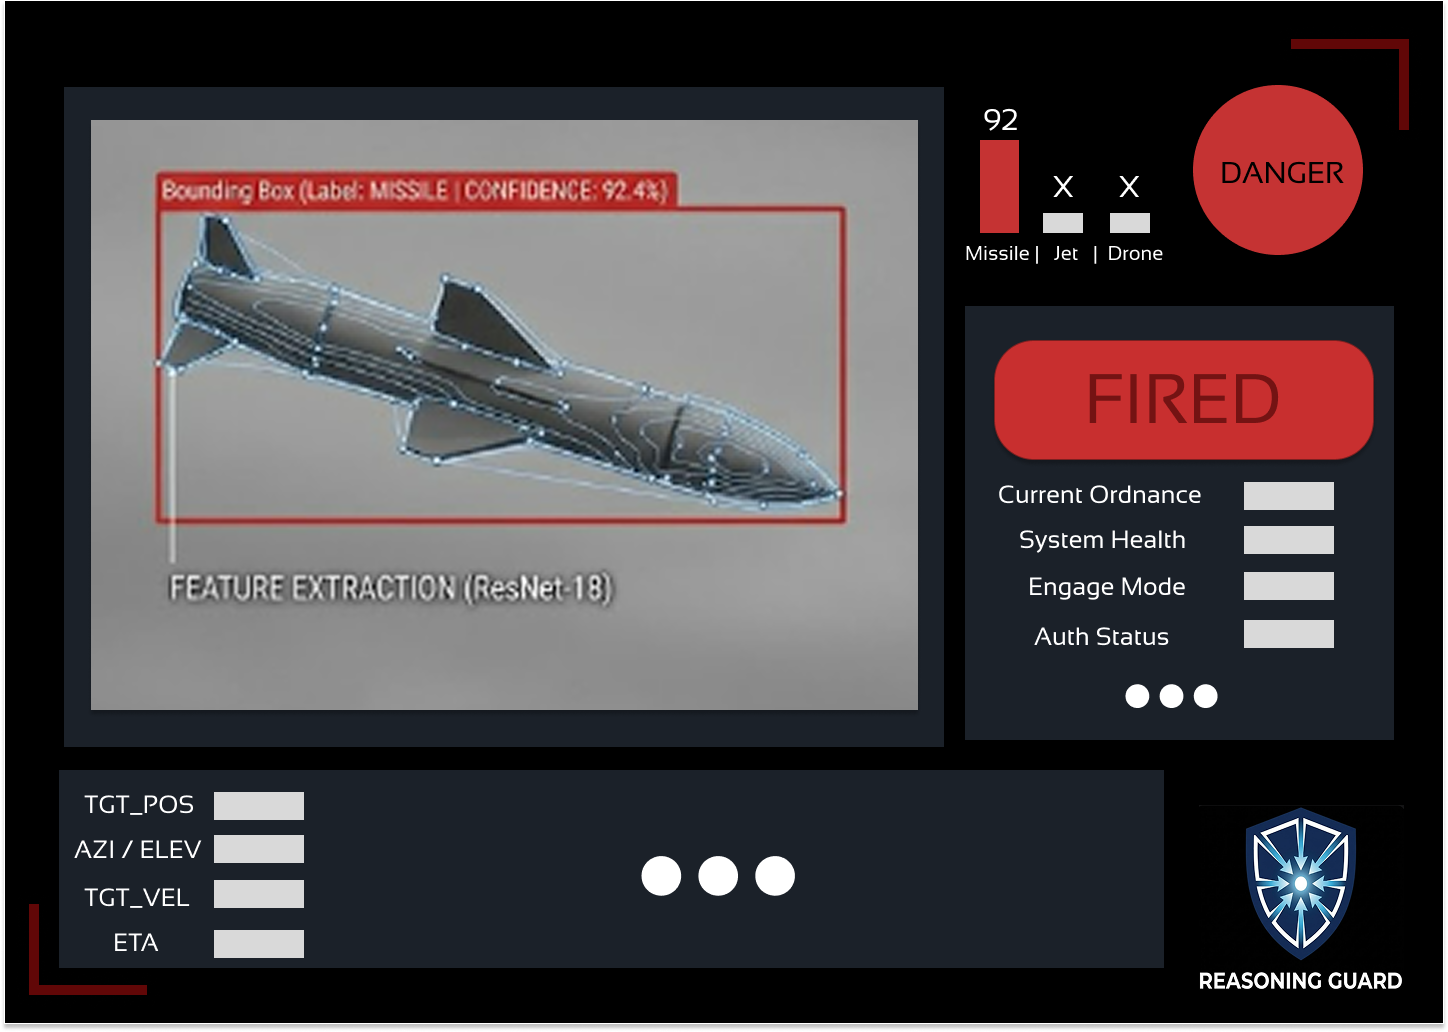
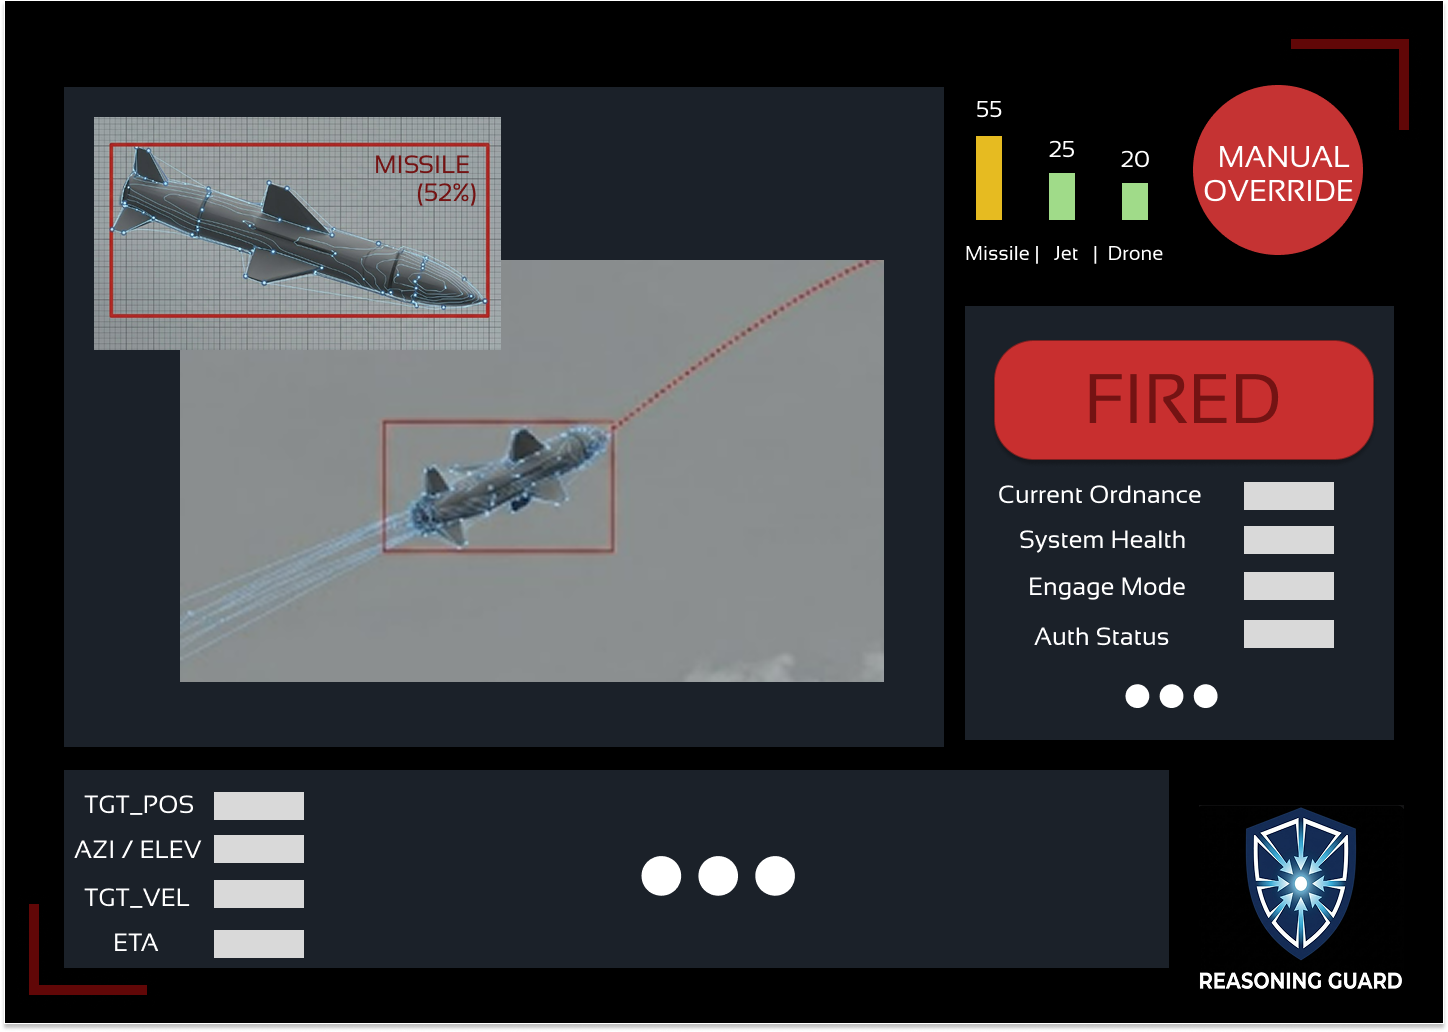
그림 추가

diff --git a/Analysis_22212026_홍재원.md b/Analysis_22212026_홍재원.md
@@ -284,15 +284,15 @@
 
 [그림 9]와 [그림 10]은 객체의 위협 확률이 자동 교전 임계치(90% 이상)를 초과하여, 찰나의 지연 없이 즉각적인 타격이 요구되는 상황의 UI임.
 
-![그림9](./assets/그림9.png)
-*<center>[그림 9] DANGER 상태: 종합 전술 상황도 (COP) 플랫폼</center>*
+![그림11](./assets/그림11.png)
+*<center>[그림 11] DANGER 상태: 종합 전술 상황도 (COP) 플랫폼</center>*
 
 * 고위협 표적의 쇄도가 시스템적으로 확정됨에 따라 화면 전반에 적색의 'DANGER' 경보가 점등됨. 이는 방공망 전체가 최고 수준의 비상 상태로 전환되었음을 의미함.
 
 <br>
 
-![그림10](./assets/그림10.png)
-*<center>[그림 10] DANGER 상태: 전술 객체 정밀 식별 및 사격 통제 제원(FCS) 인터페이스</center>*
+![그림10](./assets/그림12.png)
+*<center>[그림 12] DANGER 상태: 전술 객체 정밀 식별 및 사격 통제 제원(FCS) 인터페이스</center>*
 
 * 객체가 미사일일 확률이 92.4%로 확정된 초근접 혹은 고위협 상황임. 표적을 적색 바운딩 박스로 락온(Lock-on)함과 동시에 최종 판정이 **'FIRED(발사)'** 로 전환됨. 이는 시계열적으로 매우 짧은 대응 시간 내에 인간의 인지 및 승인 지연을 극복하기 위해, 식별 엔진이 산출된 데이터를 바탕으로 무장 시스템에 자동 타격 명령을 하달했음을 나타냄.
 
